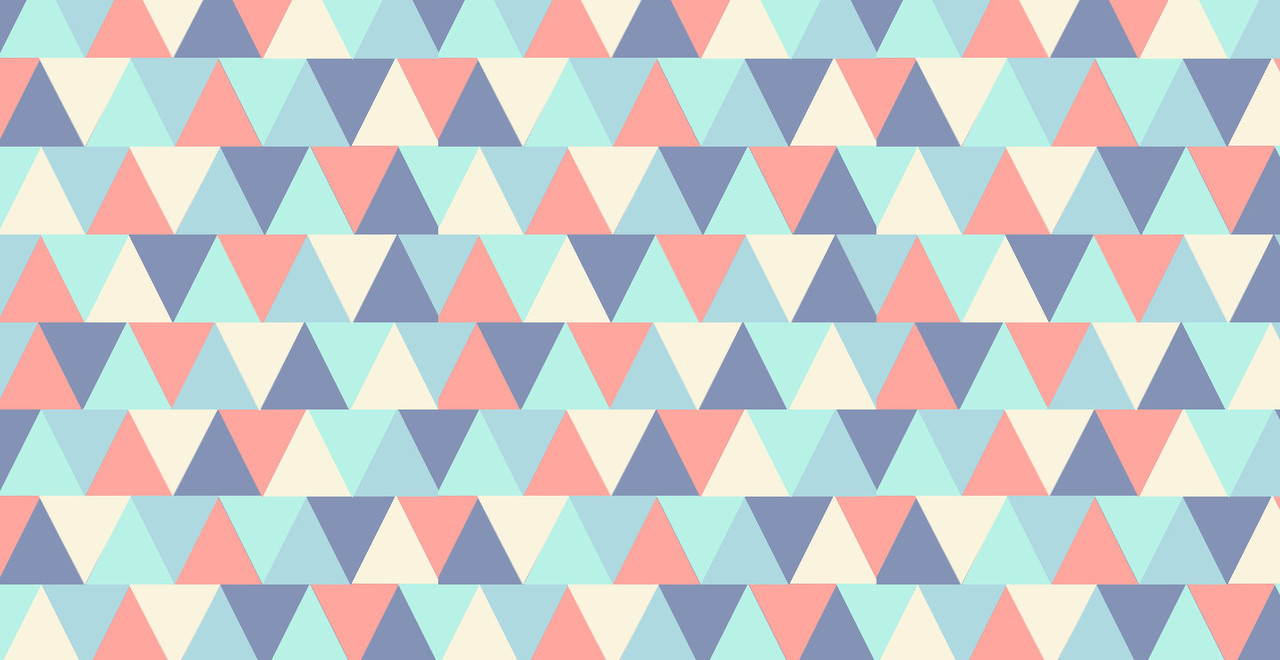
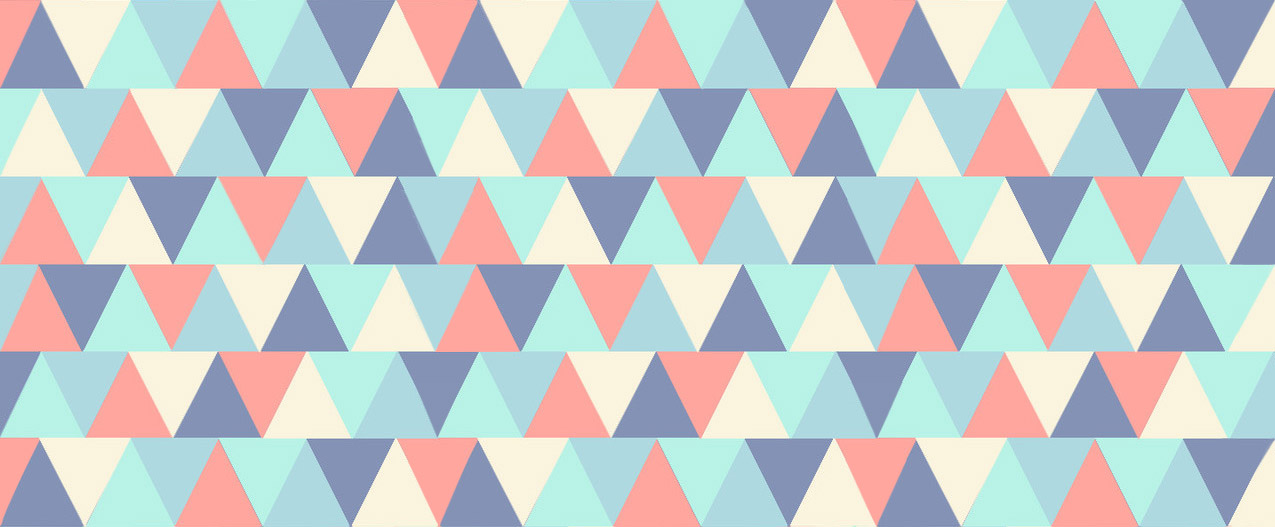
updated background

diff --git a/browser/js/home/home.html b/browser/js/home/home.html
@@ -10,7 +10,7 @@
 <section id="home">
     <div class="bgimg-1">
         <div class="maincaption">
-            <span style="background-color:#111;color:white;opacity:0.75">&nbsp;M I N D S C A P E </span><br><br>
+            <span style="background-color:#111;color:white;opacity:0.75">&nbsp;t r a V e r s e</span><br><br>
         </div>
     </div>
     <div class="bgcolor-1">
@@ -26,7 +26,7 @@
             <h3 style="text-align:center;color:#faf3dd;">When was the last time you peered down the rabbit hole?</h3>
         </div>
     </div>
-    <div class="bgimg-3">
+    <div class="bgimg-1">
         <div class="caption">
             <span class="border" style="background-color:transparent;font-size:30px;color: #32353F;font-family: 'Dosis', sans-serif;"><span style="background-color:#111;color:white;opacity:0.75">&nbsp;/ YOUR MIND /</span></span>
         </div>
@@ -43,7 +43,7 @@
             <div class="row">
                 <div class="col l6 s12">
                     <h5>CREATE YOUR MINDSCAPE</h5>
-                    <p class="grey-text text-lighten-4">Now you can finally traverse through your mind's eye.</p>
+                    <p class="grey-text text-lighten-4">Now you can finally traVerse through your mind's eye.</p>
                 </div>
                 <div class="col l4 offset-l2 s12">
                     <h5>LINKS</h5>
@@ -58,7 +58,7 @@
                     <hr>
         <div class="footer-copyright">
             <div class="container">
-                © 2016 MINDSCAPE
+                © 2016 traVerse
                 <!-- <a class="grey-text text-lighten-4 right" href="#!">More Links</a> -->
             </div>
         </div>

diff --git a/browser/scss/home/main.scss b/browser/scss/home/main.scss
@@ -1,9 +1,4 @@
 #home {
-  // fullstack-logo {
-  //   padding-top: 30px;
-  //   width: 150px;
-  //   margin: 0 auto;
-  // }
   h1 {
     margin-top: 40px;
     text-align: center;
@@ -13,8 +8,6 @@
     height: 100%;
     margin: 0;
     font: 15px "Dosis", sans-serif;
-    // font: 400 15px/1.8 "Dosis", sans-serif;
-    // color: #777;
   }
   .bgimg-1,
   .bgimg-2,
@@ -22,13 +15,13 @@
       position: relative;
       // opacity: 0.65;
       background-attachment: fixed;
-      background-position: center;
-      background-repeat: no-repeat;
-      background-size: cover;
+      // background-position: center;
+      // background-size: cover;
   }
   .bgimg-1 {
-    background-image: url("/images/background1.jpg");
-    min-height: 700px;
+    min-height:592px;
+    background-image: url("/images/background5.png");
+    background-repeat:repeat;
   }
   .bgimg-2 {
     background-image: url("/images/background2.jpg");
@@ -106,6 +99,7 @@
 
 nav {
   max-height:50px;
+  margin-bottom:0px;
   a: {
     color:white;
   }

diff --git a/server/app/views/index.html b/server/app/views/index.html
@@ -3,7 +3,7 @@
 
 <head>
     <base href="/" />
-    <title>Emoscape</title>
+    <title>traVerse</title>
     <link rel="stylesheet" type="text/css" href="/bootstrap/dist/css/bootstrap.css" />
     <!--Import materialize.css-->
     <link rel="stylesheet" type="text/css" href="/materialize-css/dist/css/materialize.min.css" media="screen,projection" />

diff --git a/browser/scss/directives/navbar.scss b/browser/scss/directives/navbar.scss
@@ -1,4 +1,5 @@
 navbar {
+    margin-bottom:0px;
     nav {
         display: block;
         background-color: black;
